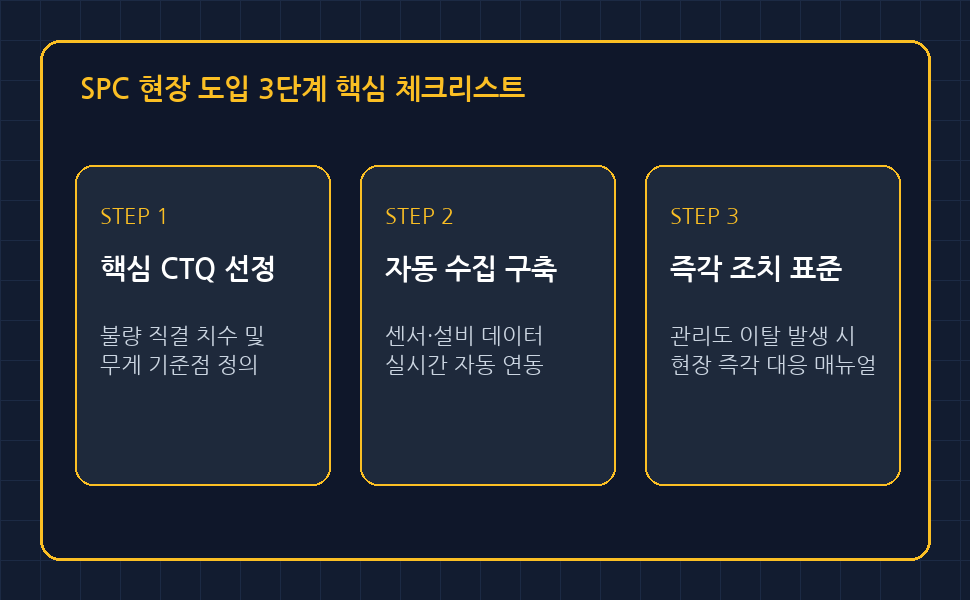
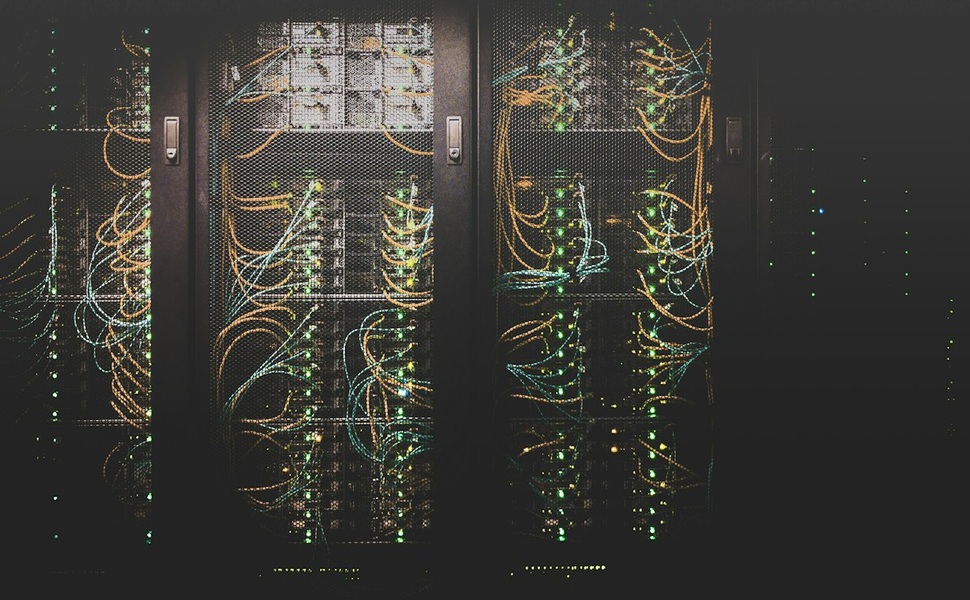
fix: sync master branch, remove old SPC graph fallbacks, prevent duplicate slide photos, and expand topic matching

diff --git a/ai_generator.py b/ai_generator.py
@@ -18,6 +18,21 @@ from google import genai
 
 
 INDUSTRIAL_STOCK_LIBRARY: Dict[str, List[str]] = {
+    "edge_iot": [
+        "https://images.unsplash.com/photo-1518770660439-4636190af475?auto=format&fit=crop&w=1200&q=80",
+        "https://images.unsplash.com/photo-1563770660941-20978e870e26?auto=format&fit=crop&w=1200&q=80",
+        "https://images.unsplash.com/photo-1550751827-4bd374c3f58b?auto=format&fit=crop&w=1200&q=80",
+    ],
+    "cloud_server": [
+        "https://images.unsplash.com/photo-1558494949-ef010cbdcc31?auto=format&fit=crop&w=1200&q=80",
+        "https://images.unsplash.com/photo-1544197150-b99a580bb7a8?auto=format&fit=crop&w=1200&q=80",
+        "https://images.unsplash.com/photo-1451187580459-43490279c0fa?auto=format&fit=crop&w=1200&q=80",
+    ],
+    "safety_control": [
+        "https://images.unsplash.com/photo-1581092918056-0c4c3acd3789?auto=format&fit=crop&w=1200&q=80",
+        "https://images.unsplash.com/photo-1581092580497-e0d23cbdf1dc?auto=format&fit=crop&w=1200&q=80",
+        "https://images.unsplash.com/photo-1581092160607-ee22621dd758?auto=format&fit=crop&w=1200&q=80",
+    ],
     "digital_twin": [
         "https://images.unsplash.com/photo-1581092160607-ee22621dd758?auto=format&fit=crop&w=1200&q=80",
         "https://images.unsplash.com/photo-1504384308090-c894fdcc538d?auto=format&fit=crop&w=1200&q=80",
@@ -50,15 +65,21 @@ INDUSTRIAL_STOCK_LIBRARY: Dict[str, List[str]] = {
 
 def detect_industrial_category(context_text: str) -> str:
     text = (context_text or "").lower()
+    if any(k in text for k in ["비상", "정지", "이상", "골든타임", "위험", "파손", "중단", "안전", "감지", "emergency", "stop"]):
+        return "safety_control"
+    if any(k in text for k in ["클라우드", "아키텍처", "분업", "서버", "네트워크", "전송", "대역폭", "cloud", "server"]):
+        return "cloud_server"
+    if any(k in text for k in ["엣지", "즉시 계산", "현장 처리", "게이트웨이", "센서", "연산", "edge", "iot"]):
+        return "edge_iot"
     if any(k in text for k in ["트윈", "시뮬레이션", "가상", "디지털", "twin", "simulation"]):
         return "digital_twin"
     if any(k in text for k in ["로봇", "자동화", "컨베이어", "공정", "조립", "robot", "automation"]):
         return "automation_robot"
     if any(k in text for k in ["모니터", "데이터", "대시보드", "관제", "mes", "erp", "분석", "dashboard"]):
         return "control_dashboard"
-    if any(k in text for k in ["회로", "기판", "반도체", "pcb", "센서", "전자", "circuit"]):
+    if any(k in text for k in ["회로", "기판", "반도체", "pcb", "전자", "circuit"]):
         return "pcb_circuit"
-    if any(k in text for k in ["팀", "컨설팅", "지원사업", "선정", "회의", "전략", "정부", "도입", "상담"]):
+    if any(k in text for k in ["팀", "컨설팅", "지원사업", "선정", "회의", "전략", "정부", "상담"]):
         return "engineering_team"
     return "factory_plant"
 
@@ -68,21 +89,36 @@ def fetch_smart_stock_photo(
     output_path: str,
     width: int = 970,
     height: int = 600,
-    seed_idx: int = 0
+    seed_idx: int = 0,
+    used_urls: Optional[set] = None
 ) -> str:
     """
-    초고화질 실사 산업/제조 스톡 사진(Unsplash 정품)을 주제에 맞춰 매칭 및 리사이징하여 저장합니다.
-    만화/인형/왜곡 없이 실제 100% 사실적인 산업 현장 사진을 보장합니다.
+    초고화질 실사 산업/제조 스톡 사진(Unsplash 정품)을 슬라이드 제목/내용에 맞춰 매칭 및 저장합니다.
+    슬라이드 간 사진 중복을 원천 방지합니다.
     """
     cat = detect_industrial_category(context_text)
-    urls = INDUSTRIAL_STOCK_LIBRARY.get(cat, INDUSTRIAL_STOCK_LIBRARY["factory_plant"])
-    chosen_url = urls[seed_idx % len(urls)]
+    candidates = list(INDUSTRIAL_STOCK_LIBRARY.get(cat, INDUSTRIAL_STOCK_LIBRARY["factory_plant"]))
+
+    # 모든 카테고리의 전체 풀을 후순위로 연결하여 중복 절대 방지
+    for other_cat, other_urls in INDUSTRIAL_STOCK_LIBRARY.items():
+        if other_cat != cat:
+            for u in other_urls:
+                if u not in candidates:
+                    candidates.append(u)
+
+    chosen_url = candidates[seed_idx % len(candidates)]
+    if used_urls is not None:
+        for idx_offset in range(len(candidates)):
+            cand = candidates[(seed_idx + idx_offset) % len(candidates)]
+            if cand not in used_urls:
+                chosen_url = cand
+                break
+        used_urls.add(chosen_url)
 
     try:
         resp = requests.get(chosen_url, headers={"User-Agent": "Mozilla/5.0"}, timeout=12)
         if resp.status_code == 200 and len(resp.content) > 10000:
             img = Image.open(BytesIO(resp.content)).convert("RGB")
-            # 비율에 맞게 센터 크롭 후 리사이징
             target_ratio = width / height
             orig_ratio = img.width / img.height
             if orig_ratio > target_ratio:
@@ -110,28 +146,14 @@ def generate_ai_image(
     output_path: Optional[str] = None
 ) -> str:
     """
-    슬라이드 나레이션/상황에 맞춘 인물 및 장면 이미지를 실제 제조 현장 사진 톤에 맞춰 선명하게 생성합니다.
+    기존 함수 호환용 래퍼: 외부 저품질 AI(402 에러) 대신 검증된 고화질 실사 스톡 사진을 즉시 매칭합니다.
     """
     os.makedirs("images", exist_ok=True)
     if not output_path:
         ts = datetime.now().strftime("%Y%m%d_%H%M%S_%f")[:19]
-        output_path = f"images/ai_gen_{ts}.jpg"
-
-    # 기존 블로그 사진들과 톤앤매너 일치 및 만화/애니메이션/피규어 철저 배제
-    style_anchor = (
-        "Professional industrial DSLR documentary photograph, authentic modern smart manufacturing plant, "
-        "industrial automation line, control room with dual monitors displaying digital twin simulation and 3D modeling, "
-        "bright cool-white fluorescent lighting, natural color balance, deep focus, ultra crisp 8k photorealistic. "
-        "Strictly avoid: NO anime, NO cartoon, NO 3d doll, NO figure, NO comic, NO illustration, NO CGI drawing, NO fake characters"
-    )
-    refined_prompt = f"{style_anchor}, {prompt.strip()}"
-    encoded_prompt = urllib.parse.quote(refined_prompt)
-    seed = int(time.time() * 1000) % 100000
-    url = f"https://image.pollinations.ai/prompt/{encoded_prompt}?width={width}&height={height}&model=flux&nologo=true&seed={seed}"
-    req = urllib.request.Request(url, headers={"User-Agent": "Mozilla/5.0 (Windows NT 10.0; Win64; x64)"})
-    with urllib.request.urlopen(req, timeout=40) as resp, open(output_path, "wb") as f:
-        f.write(resp.read())
-    return output_path
+        output_path = f"images/stock_gen_{ts}.jpg"
+    seed = int(time.time()) % 10
+    return fetch_smart_stock_photo(prompt, output_path, width=width, height=height, seed_idx=seed)
 
 
 class Slide1Spec(BaseModel):
@@ -253,42 +275,47 @@ def generate_clip_plan_from_blog(
         raise RuntimeError(f"모든 AI 모델 연결 시도 실패 (마지막 오류: {last_err})")
 
     imgs = downloaded_images or []
+    used_stock_urls: set = set()
+    ts_tag = datetime.now().strftime("%H%M%S")
 
     # 슬라이드 1: 블로그 1번 사진 우선, 없으면 대본 맞춤 실사 스톡 사진 매칭
     if len(imgs) > 0 and os.path.exists(imgs[0]):
         bg_img = imgs[0]
     else:
         ctx1 = f"{plan.slide_1.title} {plan.slide_1.subtitle} {plan.slide_1.narration}"
-        stock_path_1 = "images/stock_slide_1_bg.jpg"
-        fetch_smart_stock_photo(ctx1, stock_path_1, width=1080, height=1920, seed_idx=0)
+        stock_path_1 = f"images/stock_slide_1_{ts_tag}.jpg"
+        fetch_smart_stock_photo(ctx1, stock_path_1, width=1080, height=1920, seed_idx=0, used_urls=used_stock_urls)
         bg_img = stock_path_1 if os.path.exists(stock_path_1) else "images/slide1_bg.jpg"
 
     # 슬라이드 2: 블로그 2번 사진 우선, 없으면 대본 맞춤 실사 스톡 사진 매칭
     if len(imgs) > 1 and os.path.exists(imgs[1]):
         p1_img = imgs[1]
     else:
-        ctx2 = f"{plan.slide_2.title} {plan.slide_2.subtitle} {plan.slide_2.narration}"
-        stock_path_2 = "images/stock_slide_2.jpg"
-        fetch_smart_stock_photo(ctx2, stock_path_2, width=970, height=600, seed_idx=1)
+        b2_str = " ".join(" ".join(b) for b in plan.slide_2.bullets)
+        ctx2 = f"{plan.slide_2.title} {plan.slide_2.subtitle} {b2_str} {plan.slide_2.narration}"
+        stock_path_2 = f"images/stock_slide_2_{ts_tag}.jpg"
+        fetch_smart_stock_photo(ctx2, stock_path_2, width=970, height=600, seed_idx=1, used_urls=used_stock_urls)
         p1_img = stock_path_2 if os.path.exists(stock_path_2) else "images/photo_1.png"
 
     # 슬라이드 3: 블로그 3번 사진 우선, 없으면 대본 맞춤 실사 스톡 사진 매칭
     if len(imgs) > 2 and os.path.exists(imgs[2]):
         p2_img = imgs[2]
     else:
-        ctx3 = f"{plan.slide_3.title} {plan.slide_3.subtitle} {plan.slide_3.narration}"
-        stock_path_3 = "images/stock_slide_3.jpg"
-        fetch_smart_stock_photo(ctx3, stock_path_3, width=970, height=600, seed_idx=2)
+        b3_str = " ".join(" ".join(b) for b in plan.slide_3.bullets)
+        ctx3 = f"{plan.slide_3.title} {plan.slide_3.subtitle} {b3_str} {plan.slide_3.narration}"
+        stock_path_3 = f"images/stock_slide_3_{ts_tag}.jpg"
+        fetch_smart_stock_photo(ctx3, stock_path_3, width=970, height=600, seed_idx=2, used_urls=used_stock_urls)
         p2_img = stock_path_3 if os.path.exists(stock_path_3) else "images/photo_2.png"
 
-    # 슬라이드 4: 블로그 4번 사진 우선, 없으면 대본 맞춤 실사 스톡 사진 매칭
+    # 슬라이드 4: 블로그 4번 사진 우선, 없으면 1번 사진을 중복 재탕하지 않고 고유 실사 스톡 사진 매칭!
     if len(imgs) > 3 and os.path.exists(imgs[3]):
         p3_img = imgs[3]
     else:
-        ctx4 = f"{plan.slide_4.title} {plan.slide_4.subtitle} {plan.slide_4.narration}"
-        stock_path_4 = "images/stock_slide_4.jpg"
-        fetch_smart_stock_photo(ctx4, stock_path_4, width=970, height=600, seed_idx=3)
-        p3_img = stock_path_4 if os.path.exists(stock_path_4) else (imgs[0] if len(imgs) > 0 else "images/photo_3.png")
+        b4_str = " ".join(" ".join(b) for b in plan.slide_4.bullets)
+        ctx4 = f"{plan.slide_4.title} {plan.slide_4.subtitle} {b4_str} {plan.slide_4.narration}"
+        stock_path_4 = f"images/stock_slide_4_{ts_tag}.jpg"
+        fetch_smart_stock_photo(ctx4, stock_path_4, width=970, height=600, seed_idx=3, used_urls=used_stock_urls)
+        p3_img = stock_path_4 if os.path.exists(stock_path_4) else "images/photo_3.png"
 
     data_dict = {
         "project_name": plan.project_name or "clip_project",

diff --git a/make_clip_slides.py b/make_clip_slides.py
@@ -72,37 +72,16 @@ def ensure_sample_images(data: Dict) -> None:
         os.makedirs(os.path.dirname(img_path) or "images", exist_ok=True)
 
         if slide.get("type") == "vertical_bg":
-            # 1080x1920 스마트공장 다크 테크 배경 생성
+            # 1080x1920 다크 테크 배경 생성 (네트워크 오프라인 시 기본 배경)
             im = Image.new("RGB", (WIDTH, HEIGHT), (12, 20, 38))
             dr = ImageDraw.Draw(im)
             for y in range(0, HEIGHT, 60):
                 dr.line([(0, y), (WIDTH, y)], fill=(22, 36, 62), width=1)
             for x in range(0, WIDTH, 60):
                 dr.line([(x, 0), (x, HEIGHT)], fill=(22, 36, 62), width=1)
-
-            # 중앙 영역(500~1220)에 스마트공장 실시간 모니터링 대시보드 그래픽 배치
-            dr.rounded_rectangle([(80, 560), (1000, 1180)], radius=28, fill=(18, 30, 54), outline=(56, 189, 248), width=3)
-            dr.text((130, 605), "LIVE SMART FACTORY SPC MONITOR", font=f_label, fill=(56, 189, 248))
-            dr.line([(130, 665), (950, 665)], fill=(239, 68, 68), width=2)  # UCL
-            dr.text((850, 632), "UCL (상한선)", font=f_small, fill=(248, 113, 113))
-            dr.line([(130, 860), (950, 860)], fill=(52, 211, 153), width=2)  # CL
-            dr.text((860, 827), "CL (중심선)", font=f_small, fill=(52, 211, 153))
-            dr.line([(130, 1055), (950, 1055)], fill=(239, 68, 68), width=2)  # LCL
-            dr.text((850, 1065), "LCL (하한선)", font=f_small, fill=(248, 113, 113))
-
-            pts = [
-                (140, 880), (225, 830), (310, 870), (395, 810),
-                (480, 845), (565, 770), (650, 730), (735, 695), (815, 665)
-            ]
-            dr.line(pts, fill=(56, 189, 248), width=5)
-            for px, py in pts[:-1]:
-                dr.ellipse([(px - 8, py - 8), (px + 8, py + 8)], fill=(56, 189, 248), outline=(255, 255, 255), width=2)
-            # 마지막 경고 포인트
-            lx, ly = pts[-1]
-            dr.ellipse([(lx - 14, ly - 14), (lx + 14, ly + 14)], fill=(239, 68, 68), outline=(255, 255, 255), width=3)
             im.save(img_path, quality=95)
         else:
-            # 970x600 카드용 고해상도 인포그래픽 샘플 사진 생성
+            # 970x600 카드용 깔끔한 추상 테크 그리드 배경 (특정 주제 텍스트/그래프 배제)
             pw, ph = 970, 600
             im = Image.new("RGB", (pw, ph), (18, 28, 48))
             dr = ImageDraw.Draw(im)
@@ -112,52 +91,16 @@ def ensure_sample_images(data: Dict) -> None:
                 dr.line([(x, 0), (x, ph)], fill=(28, 42, 68), width=1)
 
             h_color = tuple(slide.get("highlight_color", [56, 189, 248]))
-            dr.rounded_rectangle([(40, 40), (pw - 40, ph - 40)], radius=20, fill=(15, 23, 42), outline=h_color, width=3)
-
-            if idx == 2:
-                dr.text((80, 75), "SPC Control Chart (관리도 조기 경보 원리)", font=f_label, fill=h_color)
-                dr.line([(80, 170), (890, 170)], fill=(239, 68, 68), width=3)
-                dr.text((745, 132), "UCL (관리상한선)", font=f_small, fill=(248, 113, 113))
-                dr.line([(80, 320), (890, 320)], fill=(148, 163, 184), width=2)
-                dr.text((755, 285), "CL (평균 중심선)", font=f_small, fill=(203, 213, 225))
-                dr.line([(80, 470), (890, 470)], fill=(239, 68, 68), width=3)
-                dr.text((745, 480), "LCL (관리하한선)", font=f_small, fill=(248, 113, 113))
-
-                pts = [(110, 340), (210, 300), (310, 330), (410, 290), (510, 260), (610, 225), (710, 195), (810, 180)]
-                dr.line(pts, fill=h_color, width=5)
-                for px, py in pts:
-                    dr.ellipse([(px - 8, py - 8), (px + 8, py + 8)], fill=h_color, outline=(255, 255, 255), width=2)
-                dr.rounded_rectangle([(620, 210), (875, 265)], radius=10, fill=(239, 68, 68))
-                dr.text((640, 224), "불량 발생 전 이상 감지!", font=f_small, fill=(255, 255, 255))
-            elif idx == 3:
-                dr.text((80, 75), "시간대별 공정 편차 분석 (특정 구간 흔들림 적발)", font=f_label, fill=h_color)
-                bars = [45, 50, 48, 52, 165, 190, 175, 50, 46, 49]
-                times = ["09시", "10시", "11시", "12시", "13시", "14시", "15시", "16시", "17시", "18시"]
-                for i, (bh, t_str) in enumerate(zip(bars, times)):
-                    bx1 = 90 + i * 80
-                    by2 = 460
-                    by1 = by2 - bh * 1.5
-                    b_col = (239, 68, 68) if bh > 100 else h_color
-                    dr.rounded_rectangle([(bx1, by1), (bx1 + 48, by2)], radius=6, fill=b_col)
-                    dr.text((bx1, by2 + 15), t_str, font=f_small, fill=(203, 213, 225))
-            else:
-                # 디지털 트윈 & 스마트 데이터 그리드 시각화 씬 그래픽
-                dr.rounded_rectangle([(60, 60), (pw - 60, ph - 60)], radius=16, fill=(16, 24, 40), outline=h_color, width=2)
-                for i in range(12):
-                    lx = 100 + i * 70
-                    dr.line([(lx, 100), (lx, ph - 100)], fill=(30, 48, 80), width=1)
-                for j in range(8):
-                    ly = 100 + j * 50
-                    dr.line([(100, ly), (pw - 100, ly)], fill=(30, 48, 80), width=1)
-                node_pts = [
-                    (180, 200), (320, 280), (460, 220), (600, 310), (740, 250),
-                    (250, 380), (390, 450), (530, 390), (670, 460), (810, 400)
-                ]
-                for p1, p2 in zip(node_pts[:-1], node_pts[1:]):
-                    dr.line([p1, p2], fill=h_color, width=3)
-                for nx, ny in node_pts:
-                    dr.ellipse([(nx - 10, ny - 10), (nx + 10, ny + 10)], fill=h_color, outline=(255, 255, 255), width=2)
-                    dr.ellipse([(nx - 18, ny - 18), (nx + 18, ny + 18)], outline=h_color, width=1)
+            dr.rounded_rectangle([(60, 60), (pw - 60, ph - 60)], radius=16, fill=(16, 24, 40), outline=h_color, width=2)
+            node_pts = [
+                (180, 200), (320, 280), (460, 220), (600, 310), (740, 250),
+                (250, 380), (390, 450), (530, 390), (670, 460), (810, 400)
+            ]
+            for p1, p2 in zip(node_pts[:-1], node_pts[1:]):
+                dr.line([p1, p2], fill=h_color, width=3)
+            for nx, ny in node_pts:
+                dr.ellipse([(nx - 10, ny - 10), (nx + 10, ny + 10)], fill=h_color, outline=(255, 255, 255), width=2)
+                dr.ellipse([(nx - 18, ny - 18), (nx + 18, ny + 18)], outline=h_color, width=1)
 
             im.save(img_path, quality=95)
 
